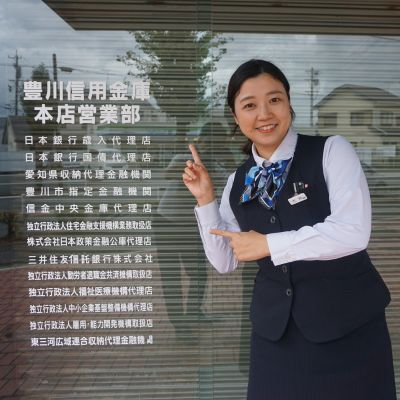
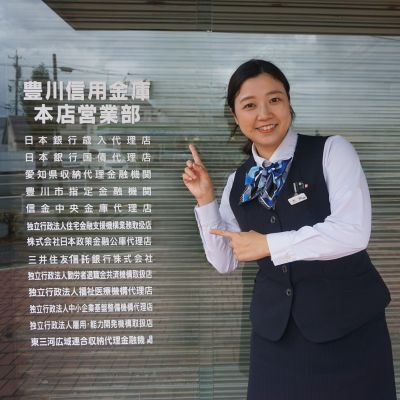
1.64

diff --git a/index.html b/index.html
@@ -102,10 +102,8 @@
                         つながる力で、<br class="mobile-br">未来はきっと変えられる。
                     </p>
                     <p>
-                        社会が変わるスピードが速い今。<br class="mobile-br">
-                        必要なのは“安定”よりも“信頼”です。<br>
-                        私たちは地域に根ざし、<br class="mobile-br">
-                        人と未来を支える力で挑戦を続けます。<br>
+                        あなたの毎日に寄り添い、<br class="mobile-br">そっと力になれる存在でありたい。<br>
+                        地域の暮らしを見つめ、安心感を届け続けます。<br>
                         そばにいる　だから　頼りになる。
                     </p>
                 </div>
@@ -125,7 +123,6 @@
                     <h2>
                         オープン・カンパニー<br>受付中！
                     </h2>
-                    <p>次回11月15日開催！</p>
                 </div>
                 <a href="https://job.mynavi.jp/27/pc/user/registSeminarEntry/index?optNo=1017773&corpId=95927&entryInfoOptNo=1430437&semGroupOptNo=1430081"
                     class="button-blue entry-button" target="_blank" rel="noopener noreferrer">
@@ -165,10 +162,10 @@
                             </p>
                             <p class="description-section">
                                 お客様と会話する中で、「あなたがいてくれてよかった」
-                                そんな言葉をもらえる瞬間が、この仕事の一番のやりがい。
+                                そんな言葉をもらえる瞬間が、この仕事の一番のやりがいです。
                             </p>
                             <p class="description-section">
-                                数字だけでなく、人とのつながりで結果をつくる。
+                                人とのつながりで結果をつくる。
                                 地域の人に信頼される“頼れる存在”として成長していけます。
                             </p>
                         </div>
@@ -191,7 +188,7 @@
                                 地域との信頼を育てていきます。
                             </p>
                             <p class="description-section">
-                                手続きだけでなく、会話を通してお客様の気持ちに寄り添うことが、
+                                会話を通してお客様の気持ちに寄り添うことが、
                                 この仕事のいちばんの魅力です。
                             </p>
                         </div>
@@ -211,7 +208,7 @@
                                 そんな想いに寄り添い、実現まで伴走します。
                             </p>
                             <p class="description-section">
-                                数字だけじゃなく、“人”に向き合うからこそ感じるやりがいがある。
+                                “人”に向き合うからこそ感じるやりがいがある。
                                 地域の前向きなエネルギーを、
                                 そっと後押しするのが私たちの仕事です。
                             </p>
@@ -232,8 +229,8 @@
                 <div class="working-style-voice">
                     <a href="./interveiw06.html" class="voice-modal-open-button fadein">
                         <div class="working-style-voice-item-text">
-                            <p>地元のお客様に<span class="big closer text-blue">『 寄り添える
-                                    』</span>のが、この仕事の魅力です。</p>
+                            <p>地元のお客様との<span class="big closer text-blue">『 つながり
+                                    』</span>が、この仕事の魅力です。</p>
                         </div>
                         <div class="voice-item-img">
                             <img src="image/WV_hirano2.jpg" alt="先輩社員の声6-2">
@@ -247,7 +244,7 @@
 
                     <a href="./interveiw05.html" class="voice-modal-open-button fadein">
                         <div class="working-style-voice-item-text">
-                            <p>小さな会話が、大きな<span class="big text-blue">『 信頼 』</span>へとつながる仕事です。</p>
+                            <p>お客様に寄り添い<span class="big text-blue">『 安心 』</span>を届ける仕事です。</p>
                         </div>
                         <div class="voice-item-img">
                             <img src="image/WV_tomihara2.jpg" alt="先輩社員の声5-2">
@@ -274,7 +271,7 @@
 
                     <a href="./interveiw03.html" class="voice-modal-open-button fadein">
                         <div class="working-style-voice-item-text">
-                            <p>子育てもキャリアも、<span class="big text-blue">『 安心 』</span>して続けられる職場です。</p>
+                            <p>子育てもキャリアも<span class="big text-blue">『 安心 』</span>して続けられる職場です。</p>
                         </div>
                         <div class="voice-item-img">
                             <img src="image/WV_yamato2.jpg" alt="先輩社員の声3-2">

diff --git a/interveiw05.html b/interveiw05.html
@@ -92,7 +92,7 @@
                         <div class="business-description-container">
                             <p class="description-section">
                                 預金課で窓口業務を担当しています。
-                                入出金や振込、税公金の支払いをはじめ、資産運用のご相談などお客様に合わせた様々なご提案をして大切なご預金をお預かりするのが主な業務内容です。
+                                預金の入出金や振込、税金の納付手続きから資産運用のご相談など、お客様に合わせ様々なご提案をして大切な資産をお預かりするのが主な業務内容です。
                             </p>
                             <p class="description-section">
                                 お客様と直接お話をすることができすごく楽しいです。お客様の隠れたニーズに気が付けるようにコミュニケーションを大切にしています。
@@ -110,13 +110,13 @@
                         <div class="business-description-container">
                             <p class="description-section">
                                 支店には年齢の近い先輩、同僚もいて毎日、元気で明るく楽しんで業務をしています。
-                                初めて聞く言葉が飛び交うような毎日でも、先輩が優しく教えてくださるのでしっかりと知識をつけることが出来ます。
+                                初めて聞く言葉が飛び交うような毎日でも、先輩が優しく教えてくれるのでしっかりと知識を見につけることが出来ます。
                             </p>
                             <p class="description-section">
-                                また、新入職員の時には先輩が指導員となってマンツーマンで業務をサポートしてくださいます。何も分からなくて不安な時も安心して働くことが出来ました。
+                                また、新入職員の時には先輩が指導員となってマンツーマンで業務をサポートしてくれます。何も分からなくて不安な時も安心して働くことが出来ました。
                             </p>
                             <p class="description-section">
-                                クラブ活動も充実していて私は剣道部に所属しています。剣道の稽古はもちろん、普段なかなかお話ができない他支店の先輩や後輩と関わることができ、たくさんの仲間が増えました。
+                                クラブ活動も充実していて私は剣道部に所属しています。剣道の稽古はもちろん、普段なかなかお話ができない他支店の先輩や後輩と関わることができ、たくさんの仲間が出来ました。
                                 毎年かわしん主催で地域の剣道大会が開催され、実力を試す場でもありますので必然と稽古にも力が入ります。
                             </p>
                         </div>
@@ -131,11 +131,11 @@
                         <div class="business-description-container">
                             <p class="description-section">
                                 ドライプへ行ったり、好きなアーティストのライプに行ったり、愛大とドッグランへ行ったりとアクテイプに過ごしています。
-                                毎週土日の休日を楽しみにプライベートにも平日の業務にも全力で取り組んでいます。
+                                毎週土日の休日を楽しみに平日の業務にも全力で取り組んでいます。
                             </p>
                             <p class="description-section">
-                                また連続して五日間の有給休暇を取得する連続休暇では、土日では混んでいるような場所にも行けたり平日行われるイベントでも参加できたり、とても充実した休日を過ごせています。
-                                残業時間も少なくほとんどの日が定時で帰宅できるので、仕事とプライベートをしつかりと切り替えができ、楽しい毎日を送っています。
+                                また連続して五日間の有給休暇を取得できる連続休暇では、土日では混んでいるような場所にも行けたり平日行われるイベントに参加できたりと、とても充実した休日を過ごせています。
+                                残業時間も少なくほとんどの日が定時で帰宅できるので、仕事とプライベートをしっかりと切り替えができ、楽しい毎日を送っています。
                             </p>
                         </div>
                     </div>

diff --git a/interveiw04.html b/interveiw04.html
@@ -91,14 +91,13 @@
                         </h3>
                         <div class="business-description-container">
                             <p class="description-section">
-                                渉外担当として、地元企業様や個人のお客様を訪問して、資金繰りや経営課題、ライフプランなどの相談・提案・手続きをしています。
+                                渉外担当として、地元企業や個人のお客様を訪問して、資金繰りや経営課題、ライフプランをしています。
                             </p>
                             <p class="description-section">
-                                お客様とのコミュニケーションを大切にし、今抱えている課題やお悩みを会話の中から把握し、お客様にあったご提案ができるよう心がけ、取引深耕や関係強化に努めています。
+                                お客様とのコミュニケーションを大切にし、お客様が今抱えている課題や悩みを会話の中から把握し、お客様にあった提案ができるよう心がけ、取引深耕や関係強化に努めています。
                             </p>
                             <p class="description-section">
-                                お客様のニーズは1人1人違います。その人にあった提案ができ、「ありがとう」「あなたに相談してよかった」と言っていただけると嬉しくやりがいを感じます。
-                                こういう経験ができるのは信用金庫という地域密着をした取り組みができるからだと思います。
+                                お客様のニーズは1人1人違います。その人にあった提案ができた時、「ありがとう」「あなたに相談してよかった」と言っていただけると嬉しくやりがいを感じます。
                                 お客様との会話の中でもいろんなことの発見や学びがたくさんあるので、会話を大切にし、信用・信頼を築いています。
                             </p>
                         </div>
@@ -112,11 +111,11 @@
                         </h3>
                         <div class="business-description-container">
                             <p class="description-section">
-                                私は入庫当初は窓口業務をしていましたが、成長するにつれ渉外業務に興味が湧き立候補しました。
+                                私は入庫当初は預金業務をしていましたが、成長するにつれ渉外業務に興味が湧きました。
                                 営業店で渉外課に配属されるまでの2年間は、女性活躍推進室という部署で渉外業務、課題解決型金融の基礎を学びました。
                             </p>
                             <p class="description-section">
-                                営業店配属後は、窓口と渉外の業務のギャップに戸惑っていましたが、分からないことがあれば上司が親身に相談に乗ってくれます。
+                                営業店配属後は、窓口業務と渉外業務のギャップに戸惑っていましたが、分からないことがあれば上司が親身に相談に乗ってくれました。
                                 丁寧に教えていただけるおかげで、安心して業務を進めることができ、少しずつですが自分で考え行動することができるようになりました。
                             </p>
                             <p class="description-section">

diff --git a/interveiw06.html b/interveiw06.html
@@ -92,10 +92,10 @@
                         <div class="business-description-container">
                             <p class="description-section">
                                 入庫して1年間は、融資課として業務の基本を学びました。分からないことばかりでしたが先輩が丁寧に教えてくれたおかげで成長することが出来ました。
-                                2年目からは、融資課で経験したことを活かして渉外課としての地元企業や個人のお客様を訪問しています。
+                                2年目からは、融資課で経験したことを活かして渉外課として地元企業や個人のお客様を訪問しています。
                             </p>
                             <p class="description-section">
-                                渉外業務では、お客様と関わる中で顧客ニーズや困りごとを汲み取り、お客様にあった方法でその課題へアドバイスできるように会話を大事にしています。
+                                渉外業務では、お客様と関わる中で顧客ニーズや困りごとを汲み取り、お客様にあった方法でその課題へアドバイスできるように対話を大事にしています。
                             </p>
                         </div>
                     </div>
@@ -108,12 +108,11 @@
                         </h3>
                         <div class="business-description-container">
                             <p class="description-section">
-                                渉外課は基本的に外でひとりになることが多いのですが、上司や先輩方がわからないことがあればすぐに電話で聞いてほしいと優しくフォローしてくれています。
-                                実際に助けてくれたりアドバイスをくれる場面はたくさんあるのでとても助かっています。
+                                渉外課は基本的に外でひとりになることが多いのですが、上司や先輩方は「わからないことがあればすぐに電話等で確認してね」と優しくフォローしてくれています。
+                                実際に助けてくれたりアドバイスをもらう場面はたくさんあるのでとても助かっています。
                             </p>
                             <p class="description-section">
                                 仕事以外の場面でもプライベートを面白おかしく話してくれたり、個人的な悩み事に付き合ってくれたりなど、信頼できる、頼りになる先輩がたくさんいてかわいがってもらっています。
-                                同期とも当日わからなかったことを共有したり、お互いに高め合ったり、プライベートで遊んだりなど仕事仲間以上の付き合いをしている人もたくさんいて充実しています。
                             </p>
                         </div>
                     </div>

diff --git a/interveiw03.html b/interveiw03.html
@@ -91,14 +91,14 @@
                         </h3>
                         <div class="business-description-container">
                             <p class="description-section">
-                                相続センターでお客様の相続に関する手続きの事務や電話対応、営業推進等を行っています。
+                                相続センターでお客様の相続に関する手続きの事務や電話対応等を行っています。
                             </p>
                             <p class="description-section">
                                 相続という非常にセンシテイプになられているお客様一人一人に寄り添い、安心して手続きができるように心がけています。
                             </p>
                             <p class="description-section">
                                 また、相続のご相談を受けたお客様から二次相続対策に対するご相談や今後のライフプランに合わせた資産運用のご相談等をいただくこともあり、
-                                お客様の家族構成やライフステージをよく知る金融のプロとして真摯に向き合いアドバイスさせていただき、やりがいを感じています。
+                                お客様の家族構成やライフステージをよく知る金融のプロとしてアドバイスさせていただき、やりがいを感じています。
                             </p>
                         </div>
                     </div>
@@ -111,8 +111,8 @@
                         </h3>
                         <div class="business-description-container">
                             <p class="description-section">
-                                二児の母として産休育休を経て、現在6時間の短時間勤務で働いています。
-                                残業はなく、業務後は保育園のお迎えや家事をしています。
+                                二児(双子)の母として産休育休を経て、現在6時間の短時間勤務で働いています。
+                                残業はなく、業務終了後は保育園のお迎えや家事をしています。
                             </p>
                             <p class="description-section">
                                 上司、同僚の方にすごく理解してもらえているため、恵まれた環境の中で働けていることに感謝しています。

diff --git a/interveiw01.html b/interveiw01.html
@@ -87,11 +87,10 @@
                     <img src="image/WV_takeda2.jpg" alt="先輩社員の声1-2">
                     <div class="business-content-item-text">
                         <h3 class="title3 honoka">
-                            自身のキャリア、支店長としての思いをお願いします
+                            自身のキャリア、支店長としての思いを教えて下さい
                         </h3>
                         <div class="business-description-container">
                             <p class="description-section">
-                                はじめまして。岡崎支店支店長、竹田絢です。
                                 2004年に入庫し、渉外担当として地域のお客様と信頼関係を築くことからキャリアをスタートしました。その後、課長・次長を経て,
                                 2021年に支店長を拝命しました。
                             </p>
@@ -112,8 +111,8 @@
                                 またそうした時間が、地域の魅力を再発見するきっかけにもなって、仕事にも役立っています。
                             </p>
                             <p class="description-section">
-                                私たちの信用金庫は、地域と人を大切にする職場です。年齢や経験に関係なく、やる気と誠実さがあれば、しつかりと評価される環境があります。
-                                私自身もその一例として、これから入庫される皆さんに希望を持ってもらえたら嬉しいです。皆さんと一緒に働ける日を、心から楽しみにしています。
+                                私たちの信用金庫は、地域と人を大切にする職場です。年齢や経験に関係なく、やる気と誠実さがあれば、しっかりと評価される環境があります。
+                                これから入庫される皆さんに希望を持ってもらえたら嬉しいです。皆さんと一緒に働ける日を、心から楽しみにしています。
                             </p>
                         </div>
                     </div>
